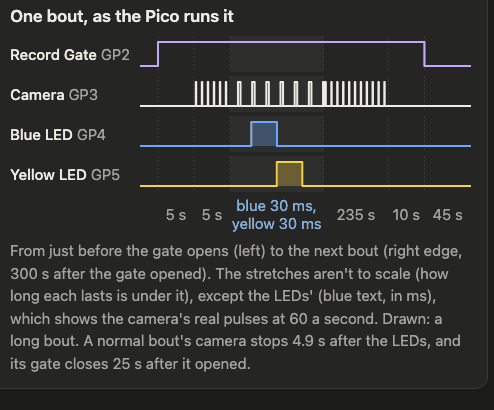
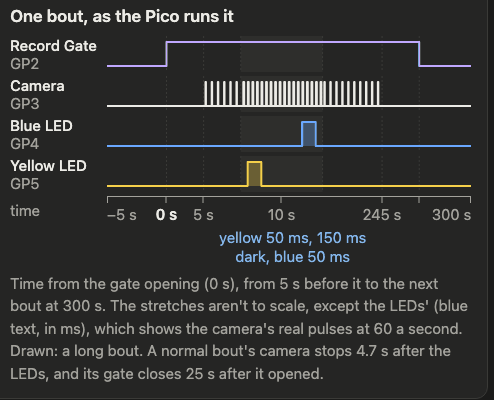
panel: the bout drawing's time axis from -5 s (0 s = the gate opening) with ticks; docs picture with the config's 50/150/50 ms LEDs

diff --git a/campy/panelpage.py b/campy/panelpage.py
@@ -61,6 +61,11 @@ select{font:inherit;padding:.375em .5em;border-radius:8px;border:1px solid var(-
 .boutpic .lab b{font-weight:500;color:var(--text)}.boutpic svg{display:block;width:100%;height:2.25rem;grid-column:2/-1}
 .boutpic .dur{font-size:.9375rem;line-height:1.25;text-align:center;padding:0 2px;min-width:0;color:var(--muted)}
 .boutpic .zoom{color:var(--accent)}
+.boutpic .axis{grid-column:2/-1;position:relative;height:1.9em;font-size:.9375rem;color:var(--muted);border-top:1px solid var(--muted)}
+.boutpic .axis i{position:absolute;top:0;width:1px;height:.4em;background:var(--muted);transform:translateX(-50%)}
+.boutpic .axis i:first-child{transform:none}.boutpic .axis i:nth-last-of-type(1){transform:translateX(-100%)}
+.boutpic .axis span{position:absolute;top:.45em;transform:translateX(-50%);white-space:nowrap}.boutpic .axis span.first{transform:none}
+.boutpic .axis span.last{transform:translateX(-100%)}.boutpic .axis span.zero{color:var(--text);font-weight:600}
 </style></head><body><main>
 <div class="topline"><div class="textsize" role="group" aria-label="Text size">Text size <button id="smaller" title="Smaller text" aria-label="Smaller text">A&minus;</button><button id="larger" title="Larger text" aria-label="Larger text">A+</button><span id="textpct"></span></div><div id="version" class="mono muted version"></div></div>
 
@@ -451,11 +456,11 @@ function renderModels(M){
   $("mrescan").hidden = !M.roots.length;
 }
 let boutSig = "";
-// The drawing of a bout: a row for each of the Pico's outputs, its time cut into stretches (a short one with every
-// output low, before the gate opens; gate open to camera on,
-// camera to the LEDs, the LEDs, LEDs to camera off, camera off to gate closed, to the next bout). Each stretch has
-// its width whatever it lasts (a cartoon: its length is written under it), but the LEDs' stretch is to scale in ms,
-// with the camera's real pulses in it.
+// The drawing of a bout: a row for each of the Pico's outputs, its time cut into stretches (5 s before the gate
+// opens, with every output low; gate open to camera on, camera to the LEDs, the LEDs, LEDs to camera off, camera off
+// to gate closed, to the next bout). Each stretch has its width whatever it lasts (a cartoon), with the time axis
+// under it in seconds from the gate's opening (0 s); the LEDs' stretch is to scale in ms, with the camera's real
+// pulses in it.
 const LED_COLOUR = {blue: "var(--blueled)", yellow: "var(--yellowled)"}; // the theme's: brighter in dark mode
 // A stretch's length, rounded as the drawing says it: "235 s", "4.5 s", "30 ms"
 function secs(t){ return t >= 9.95 ? Math.round(t).toLocaleString()+"\u00a0s" : t >= 0.9995 ? (+t.toFixed(1))+"\u00a0s" : (+(t*1000).toFixed(1))+"\u00a0ms"; }
@@ -465,8 +470,8 @@ function boutPicture(D){
   const n = D.bouts[1], frame = 1 / D.fps, L = b.leds;
   // The LEDs' stretch: from a frame and a half before the first LED to a frame and a half after the last (within the camera)
   const z0 = Math.max(b.camera[0], L[0].on - 1.5*frame), z1 = Math.min(b.camera[1], L[L.length-1].off + 1.5*frame);
-  const cuts = [-1, 0, b.camera[0], z0, z1, b.camera[1], b.gate[1], D.interval_s]; // -1: the stretch before the gate opens
-  const weights = [0.5, 1, 1, 2.6, 1.8, 1, 1.3].map((w, i) => cuts[i+1] - cuts[i] > 1e-9 ? w : 0.12);
+  const cuts = [-5, 0, b.camera[0], z0, z1, b.camera[1], b.gate[1], D.interval_s]; // from 5 s before the gate opens
+  const weights = [1.6, 1, 1, 2.2, 1.6, 1, 1.4].map((w, i) => cuts[i+1] - cuts[i] > 1e-9 ? w : 0.12);
   const W = weights.reduce((a, w) => a + w, 0) * 100, H = 30, hi = 5, lo = 25;
   const starts = weights.reduce((a, w, i) => (a.push(a[i] + w*100), a), [0]);
   const x = t => { let i = cuts.findIndex((c, k) => k > 0 && t <= c + 1e-9); if(i < 1) i = t <= 0 ? 1 : cuts.length - 1;
@@ -490,18 +495,28 @@ function boutPicture(D){
   const signals = [[[b.gate], "var(--gate)"], [pulseSpans, "var(--text)"], [led("blue"), LED_COLOUR.blue], [led("yellow"), LED_COLOUR.yellow]];
   let html = "";
   rows.forEach((r, i) => { const [spans, colour] = signals[i];
-    html += '<div class="lab"><b>'+esc(r.name)+'</b>'+(r.pin ? ' <span class="muted">'+esc(r.pin)+'</span>' : '')+'</div>' +
+    html += '<div class="lab"><b>'+esc(r.name)+'</b>'+(r.pin ? '<br><span class="muted">'+esc(r.pin)+'</span>' : '')+'</div>' +
       svg((i >= 2 ? fill(spans, colour) : "") + line(wave(spans), colour)); });
-  // Under each stretch, how long it lasts (the normal bout's too, where it differs)
   const ledText = L.map((l, i) => (i && l.on - L[i-1].off > 1e-6 ? secs(l.on - L[i-1].off)+" dark, " : "")+l.name+" "+secs(l.off - l.on)).join(", ");
-  const durs = ["", secs(b.camera[0]), secs(L[0].on - b.camera[0]), ledText, secs(b.camera[1] - L[L.length-1].off),
-    secs(b.gate[1] - b.camera[1]), secs(D.interval_s - b.gate[1])];
-  html += '<div></div>' + durs.map((t, i) => '<div class="dur'+(i == 3 ? ' zoom' : '')+'">'+esc(t)+'</div>').join("");
+  // The time axis, in seconds from the gate's opening: each stretch's edge (the LEDs' once, at their middle); labels
+  // that would overlap are hidden once drawn (0 s and the two ends kept first)
+  const ticks = [[-5, 0], [0, starts[1]], [b.camera[0], starts[2]], [L[0].on, starts[3] + weights[3]*50], [b.camera[1], starts[5]],
+    [b.gate[1], starts[6]], [D.interval_s, W]];
+  const axis = ticks.map(([t, at]) => '<i style="left:'+(at/W*100).toFixed(2)+'%"></i>').join("") + ticks.map(([t, at], i, all) =>
+    '<span class="'+(i == 0 ? "first" : i == all.length-1 ? "last" : "")+(t == 0 ? " zero" : "")+'" style="left:'+(at/W*100).toFixed(2)+'%">'+
+    (t < 0 ? "\u2212"+secs(-t) : t == 0 ? "0\u00a0s" : secs(t))+'</span>').join("");
+  html += '<div class="lab muted">time</div><div class="axis">'+axis+'</div>' +
+    '<div class="dur zoom" style="grid-column:4 / 7">'+esc(ledText)+'</div>';
   const box = $("boutpic"); box.style.gridTemplateColumns = "auto " + weights.map(w => w+"fr").join(" "); box.innerHTML = html;
+  const kept = [], marks = [...box.querySelectorAll(".axis span")];
+  [...marks.filter(m => m.classList.contains("zero")), marks[0], marks[marks.length-1], ...marks].forEach(m => {
+    if(kept.includes(m)) return; const r = m.getBoundingClientRect();
+    if(kept.some(k => { const q = k.getBoundingClientRect(); return r.left < q.right + 6 && q.left < r.right + 6; })) m.style.visibility = "hidden";
+    else kept.push(m); });
   box.setAttribute("aria-label", "One bout: gate open "+secs(b.gate[1])+", camera from "+secs(b.camera[0])+" to "+secs(b.camera[1])+", "+ledText+
     ", next bout at "+secs(D.interval_s));
-  $("boutpicnote").textContent = "From just before the gate opens (left) to the next bout (right edge, "+secs(D.interval_s)+" after the gate opened). The stretches aren't to scale "+
-    "(how long each lasts is under it), except the LEDs' (blue text, in ms), which shows the camera's real pulses at "+(+D.fps.toFixed(3))+" a second."+
+  $("boutpicnote").textContent = "Time from the gate opening (0 s), from 5 s before it to the next bout at "+secs(D.interval_s)+". The stretches aren't "+
+    "to scale, except the LEDs' (blue text, in ms), which shows the camera's real pulses at "+(+D.fps.toFixed(3))+" a second."+
     (n ? " Drawn: a long bout. A normal bout's camera stops "+secs(n.camera[1] - n.leds[n.leds.length-1].off)+" after the LEDs, and its gate closes "+
       secs(n.gate[1])+" after it opened." : " Every bout is long.");
 }

diff --git a/docs/recording-a-session.md b/docs/recording-a-session.md
@@ -46,11 +46,11 @@ Next to them, under **Checks**, is a list of checks:
 - On the ChronicRecord rig the disk line is what the chosen length needs instead, and a length that doesn't fit stops the start ([below](#on-the-chronicrecord-rig-the-pico-and-spikeglx)).
 - **stops the start** (red): the recording can't start until it is fixed. Ask the person who set up the rig.
 
-On the ChronicRecord rig, under **Start recording**, a drawing shows **one bout as the Pico runs it**: a row for each of its outputs (the record gate to SpikeGLX on GP2, the camera trigger on GP3, the blue LED on GP4 and the yellow LED on GP5), from just before the gate opens on the left to the next bout on the right. The stretches aren't drawn to scale, and how long each lasts is written under it. The LEDs' stretch is the exception: it is zoomed in to milliseconds and shows the camera's real pulses, so you can see which frames each LED lights, which LED comes first, and any dark gap between them. It follows the **Bout settings** as you change them: the page sends a setting when you leave its box or press Enter, and also after a short pause in typing.
+On the ChronicRecord rig, under **Start recording**, a drawing shows **one bout as the Pico runs it**: a row for each of its outputs (the record gate to SpikeGLX on GP2, the camera trigger on GP3, the blue LED on GP4 and the yellow LED on GP5), from 5 s before the gate opens to the next bout, with a time axis under it in seconds from the gate opening (0 s). The stretches between the axis marks aren't drawn to scale. The LEDs' stretch is the exception: it is zoomed in to milliseconds and shows the camera's real pulses, so you can see which frames each LED lights, which LED comes first, and any dark gap between them. It follows the **Bout settings** as you change them: the page sends a setting when you leave its box or press Enter, and also after a short pause in typing.
 
 ![One bout as the Pico runs it: the record gate, the camera's pulses, the blue LED and the yellow LED, with the LEDs' stretch zoomed in to milliseconds](images/panel-bout.png)
 
-*(The ChronicRecord config's bout before the fiber photometry settings: blue 30 ms, then yellow 30 ms. Dark theme.)*
+*(The ChronicRecord config's bout, with its fiber photometry pattern: yellow 50 ms, 150 ms dark, then blue 50 ms, lighting frames 300-302 and 312-314. Dark theme.)*
 
 The recording's length is fixed by the rig's settings, and the page shows it (for example `2:00:00 each`).
 
